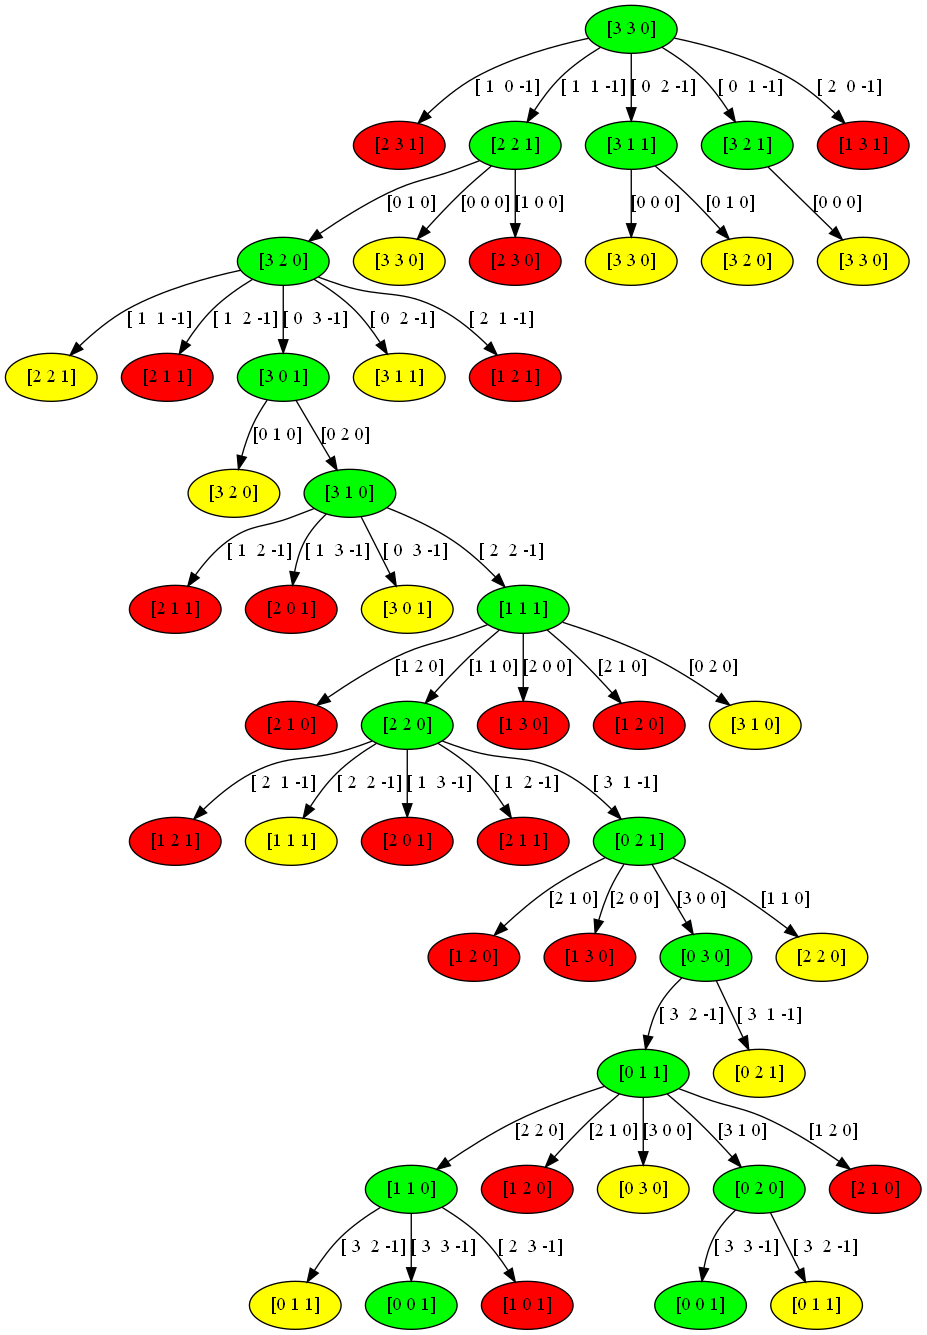
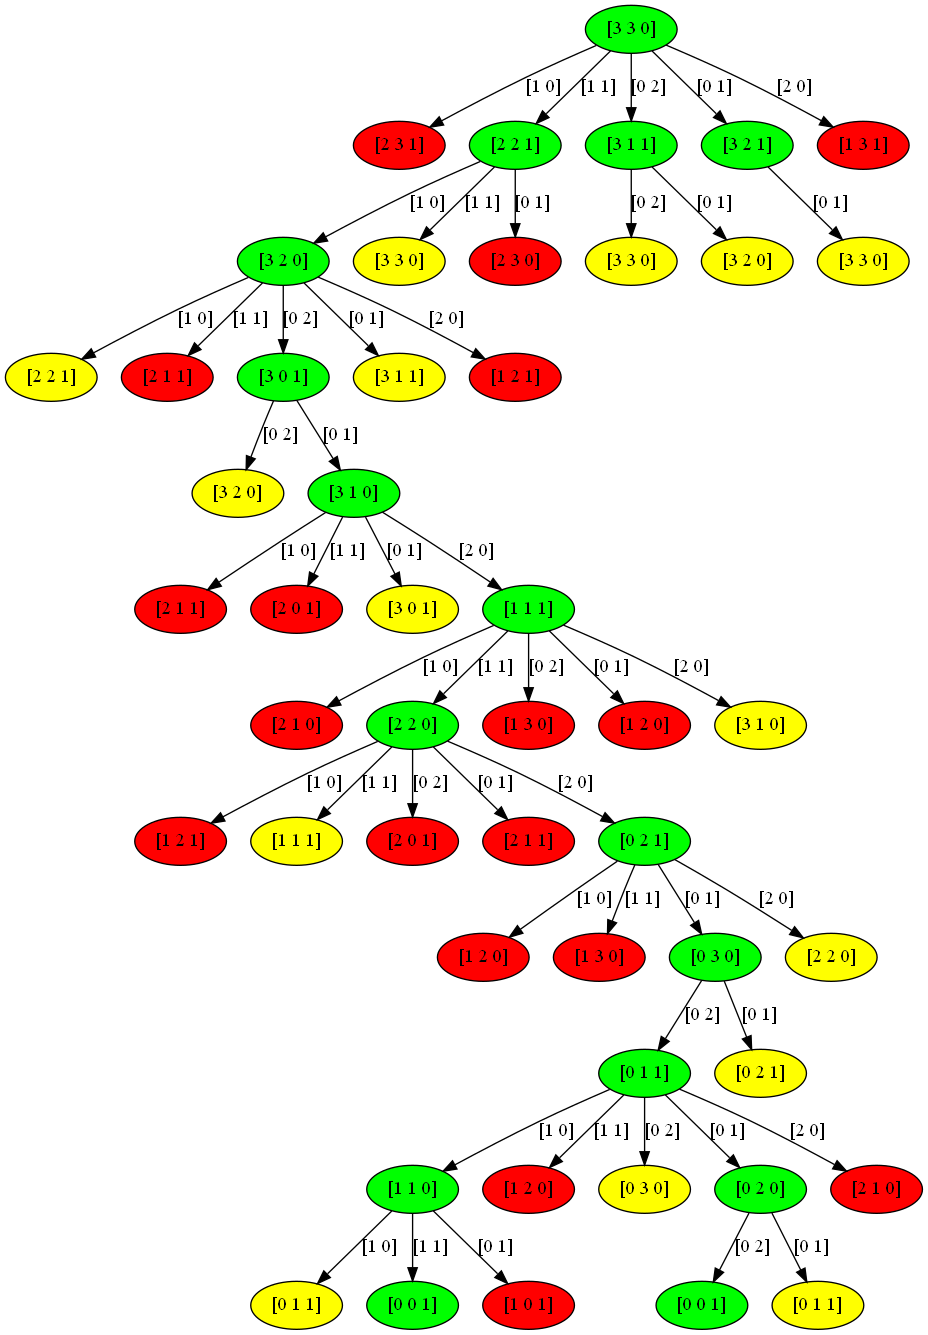
Final edit done

diff --git a/plot.py b/plot.py
@@ -24,10 +24,16 @@ class draw:
         if given_node.parent==None:
             return
         if given_node.parent.parent!=None:
-            difference=np.subtract([3,3,0],given_node.current_state)
+            if given_node.current_state[2]==1:
+                difference=np.absolute(given_node.current_state-given_node.parent.current_state)[:2]
+            else:
+                difference=np.absolute(given_node.parent.current_state-given_node.current_state)[:2]
             self.graph.add_edge(pydot.Edge(str(given_node.parent.current_state)+str(given_node.parent.parent.current_state),str(given_node.current_state)+str(given_node.parent.current_state),label=str(difference)))
         elif given_node.parent.parent==None and given_node.parent!=None:
-            difference=np.subtract([3,3,0],given_node.current_state)
+            if given_node.current_state[2]==1:
+                difference=np.absolute(given_node.current_state-given_node.parent.current_state)[:2]
+            else:
+                difference=np.absolute(given_node.parent.current_state-given_node.current_state,)[:2]
             self.graph.add_edge(pydot.Edge('root',str(given_node.current_state)+str(given_node.parent.current_state),label=str(difference)))
 
     def generate_state_space(self):
